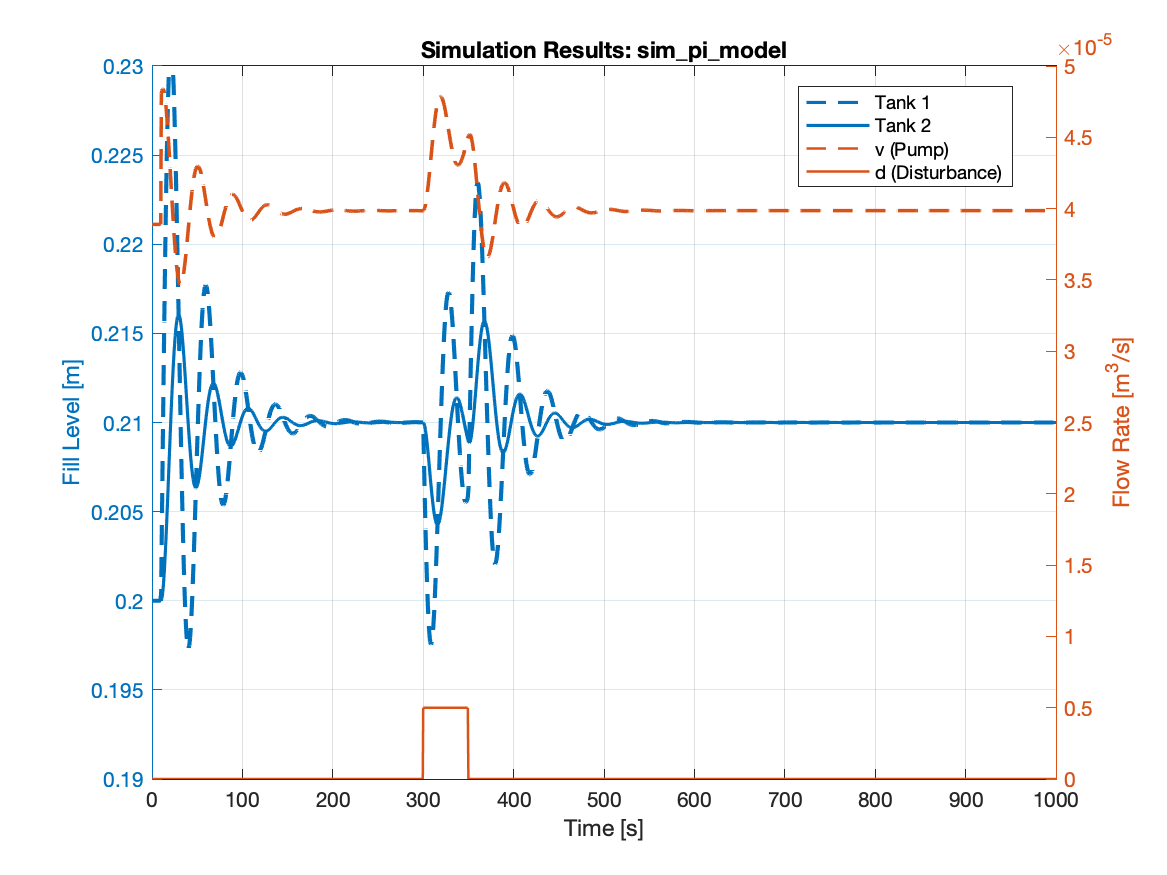
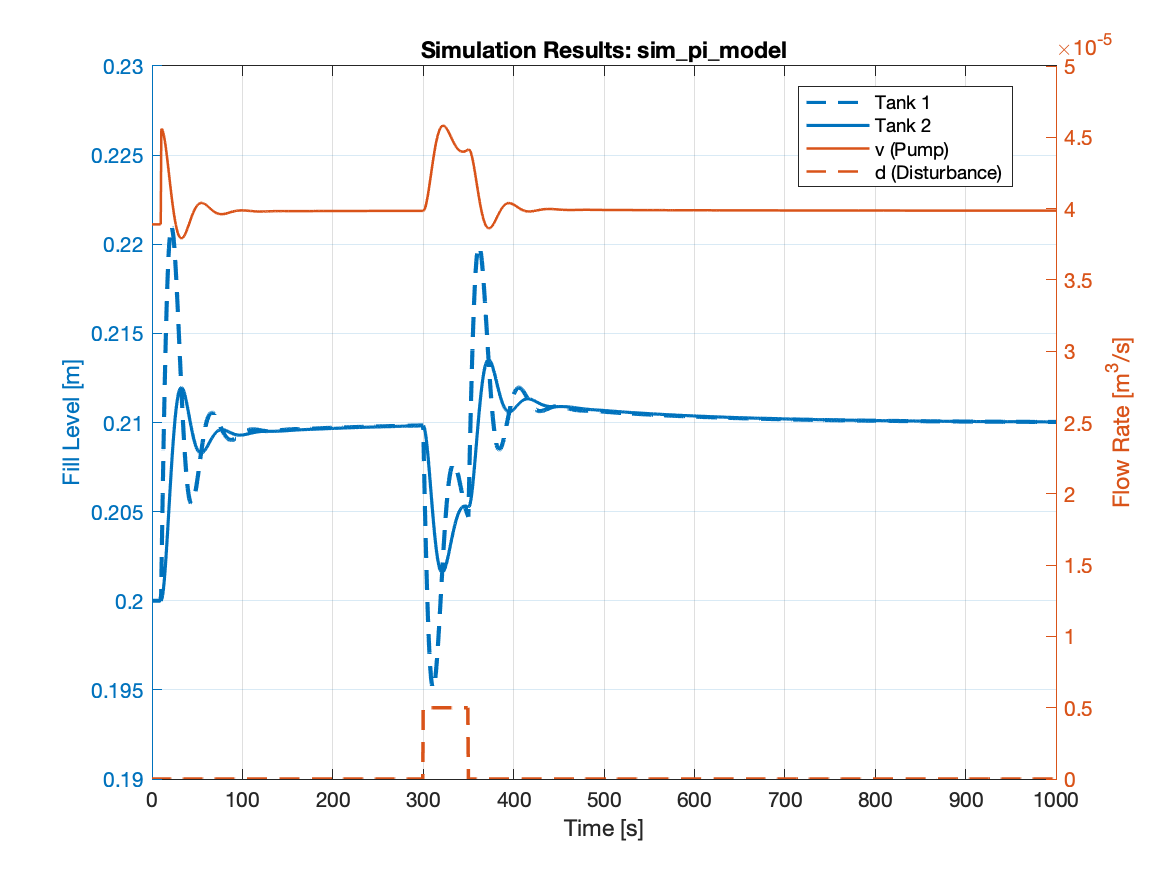
add plotting function for bode plot

Changed region(s): [[0.1234, 0.0926, 0.8946, 0.7406], [0.3702, 0.8023, 0.401, 0.8331], [0.3393, 0.864, 0.3702, 0.8949]]

diff --git a/functions/plot_bode.m b/functions/plot_bode.m
@@ -1,0 +1,20 @@
+function plot_bode(sys_tf, w, title_str, filename_str)
+%UNTITLED Summary of this function goes here
+%   Detailed explanation goes here
+    h = figure('Visible', 'on'); 
+    [Gm, Pm, Wcg, Wcp] = margin(sys_tf); 
+
+    margin(sys_tf, w);
+    grid on;
+
+    customTitle = sprintf('%s\n(A_m = %.2f dB at %.2f rad/s, \\Phi_m = %.2f deg at %.2f rad/s)', ...
+    title_str, 20*log10(Gm), Wcg, Pm, Wcp);
+    title(customTitle);
+    
+    if ~exist('data', 'dir')
+        mkdir('data');
+    end
+    filename = fullfile('data', filename_str);
+    print(h, filename, '-dpng', '-r300'); 
+end
+

diff --git a/functions/plot_results.m b/functions/plot_results.m
@@ -23,8 +23,8 @@ function plot_results(out)
     
     % right axis
     yyaxis right
-    plot(time, v, '--', 'LineWidth', 1.2, 'DisplayName', 'v (Pump)');
-    plot(time, d, '-', 'LineWidth', 1.2, 'DisplayName', 'd (Disturbance)');
+    plot(time, v, '-', 'LineWidth', 1.2, 'DisplayName', 'v (Pump)');
+    plot(time, d, '--', 'LineWidth', 1.2, 'DisplayName', 'd (Disturbance)');
     ylabel('Flow Rate [m^3/s]');
     set(gca, 'YScale', 'linear');
 
